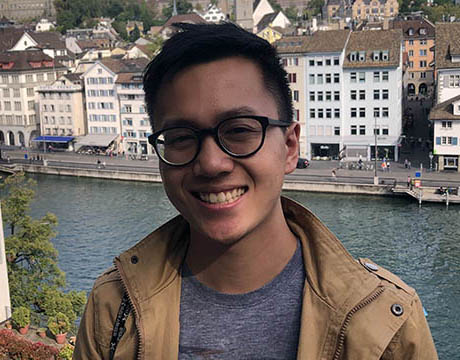
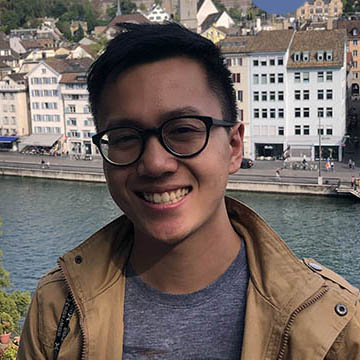
fixed image sizing

diff --git a/src/App.js b/src/App.js
@@ -1,5 +1,5 @@
 import './app.css'
-import { data, graphics, AboutMeContent } from './Data'
+import { data } from './Data'
 import ProjectCard from './components/ProjectCard';
 import React, { useRef } from 'react';
 import Header from './components/Header';
@@ -16,7 +16,6 @@ function App() {
 
   return (
     <div className='root' >
-      {/* <div ref={homeRef} className='h-1'></div> */}
       <NavBar refs={{ projRef, aboutRef, }} />
       <div className="wrapper" id='wrapper'>
         <Header />
@@ -35,8 +34,8 @@ function App() {
                 About Me
               </div>
               <div className='flex justify-center items-center flex-col pb-40'>
-                <div className='w-[300px] h-[300px] flex justify-center items-center '>
-                  <img src={profPic} alt='' className=' w-full h-auto border' style={{ borderRadius: '60%' }} />
+                <div className='w-[300px] h-[300px]'>
+                  <img src={profPic} alt='' className=' w-full h-auto border block' style={{ borderRadius: '50%' }} />
                 </div>
                 <br />
                 <p className='text-xl md:text-2xl'>Hi! Welcome to my portfolio.</p>
